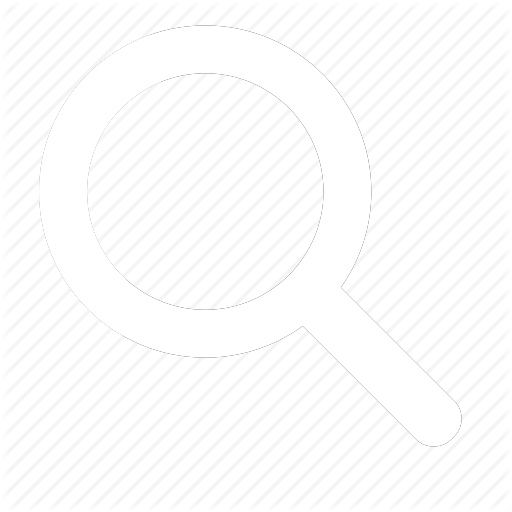
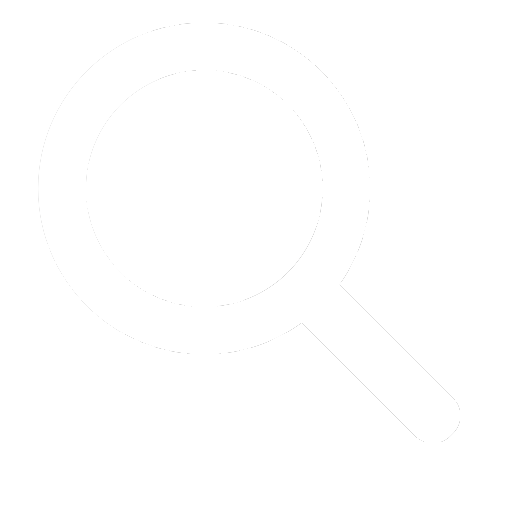
add activeIcon in image folder to work with

diff --git a/src/Controller/SearchController.php b/src/Controller/SearchController.php
@@ -4,6 +4,7 @@ namespace App\Controller;
 
 use App\Service\SearchService;
 use App\Form\SearchUserType;
+use App\Repository\TennisMatchRepository;
 use App\Repository\UserRepository;
 use Symfony\Component\HttpFoundation\Request;
 use Symfony\Component\HttpFoundation\Response;
